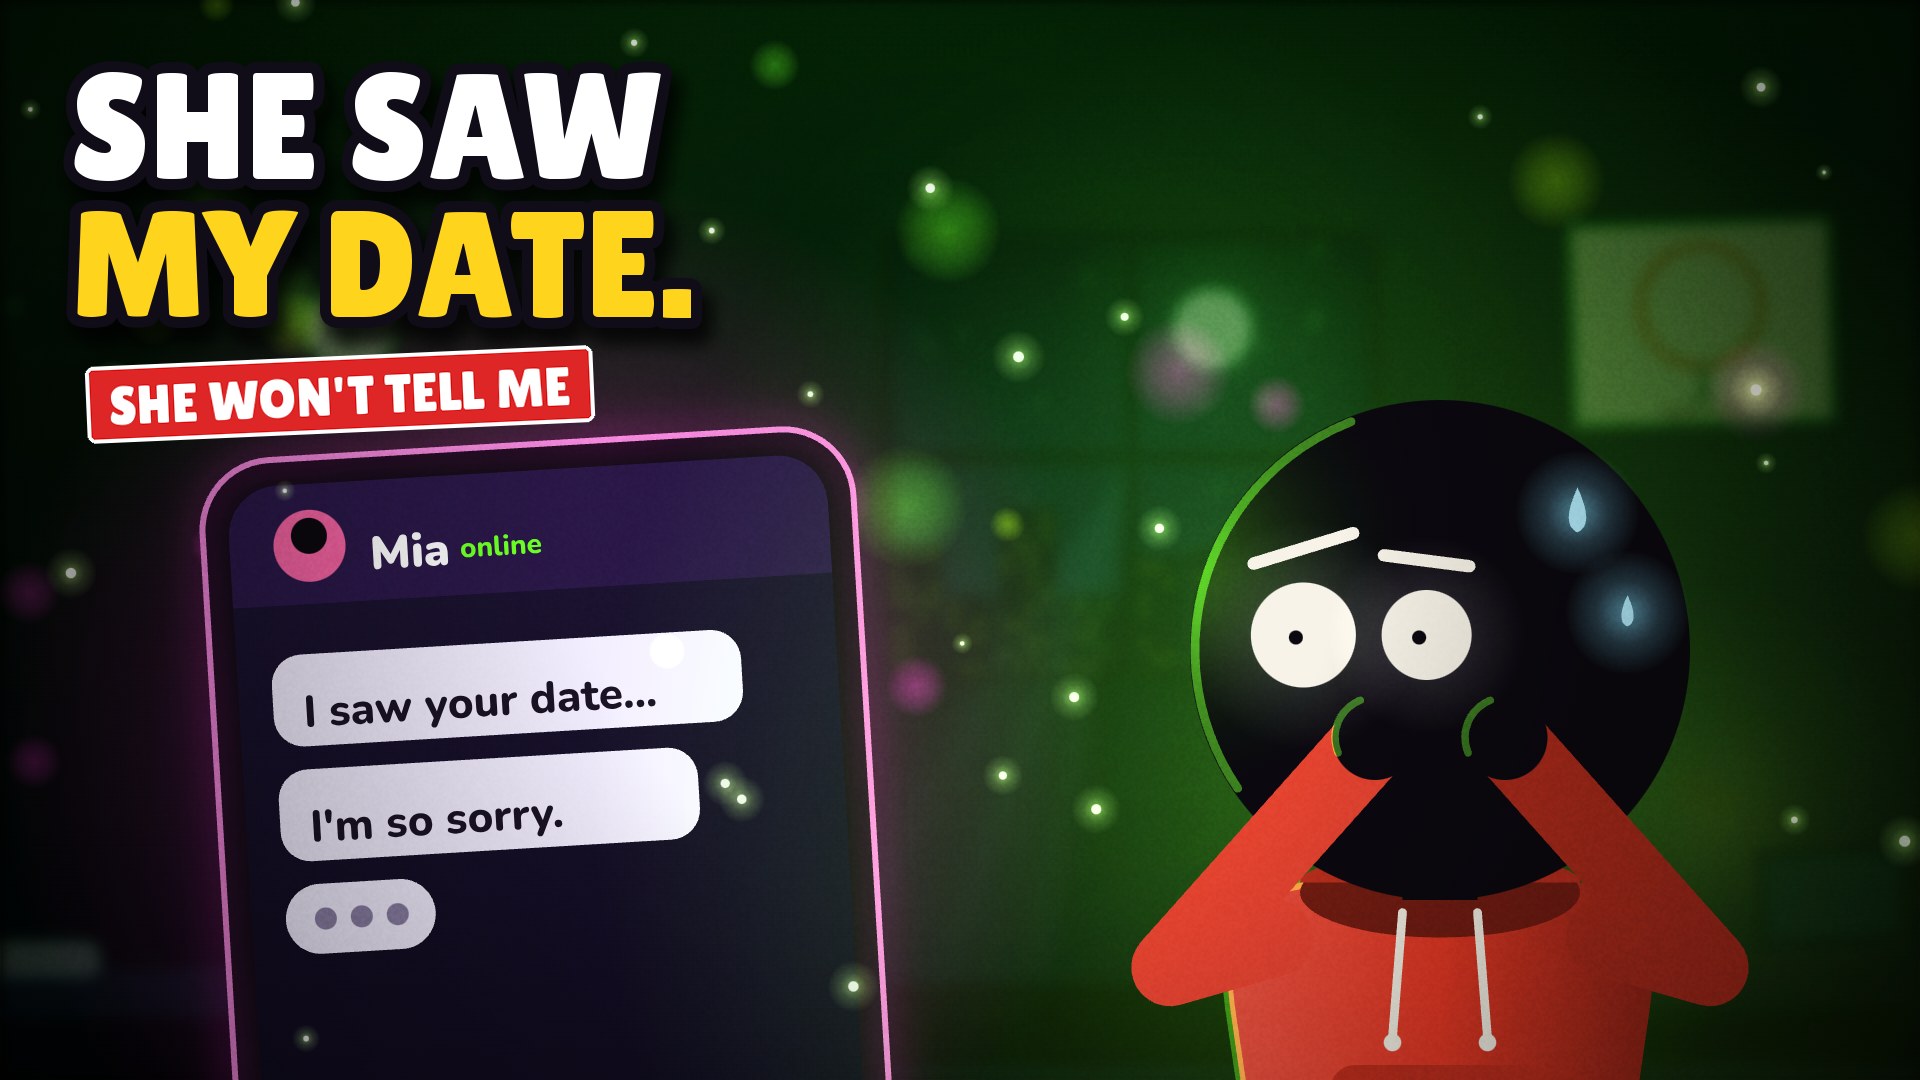
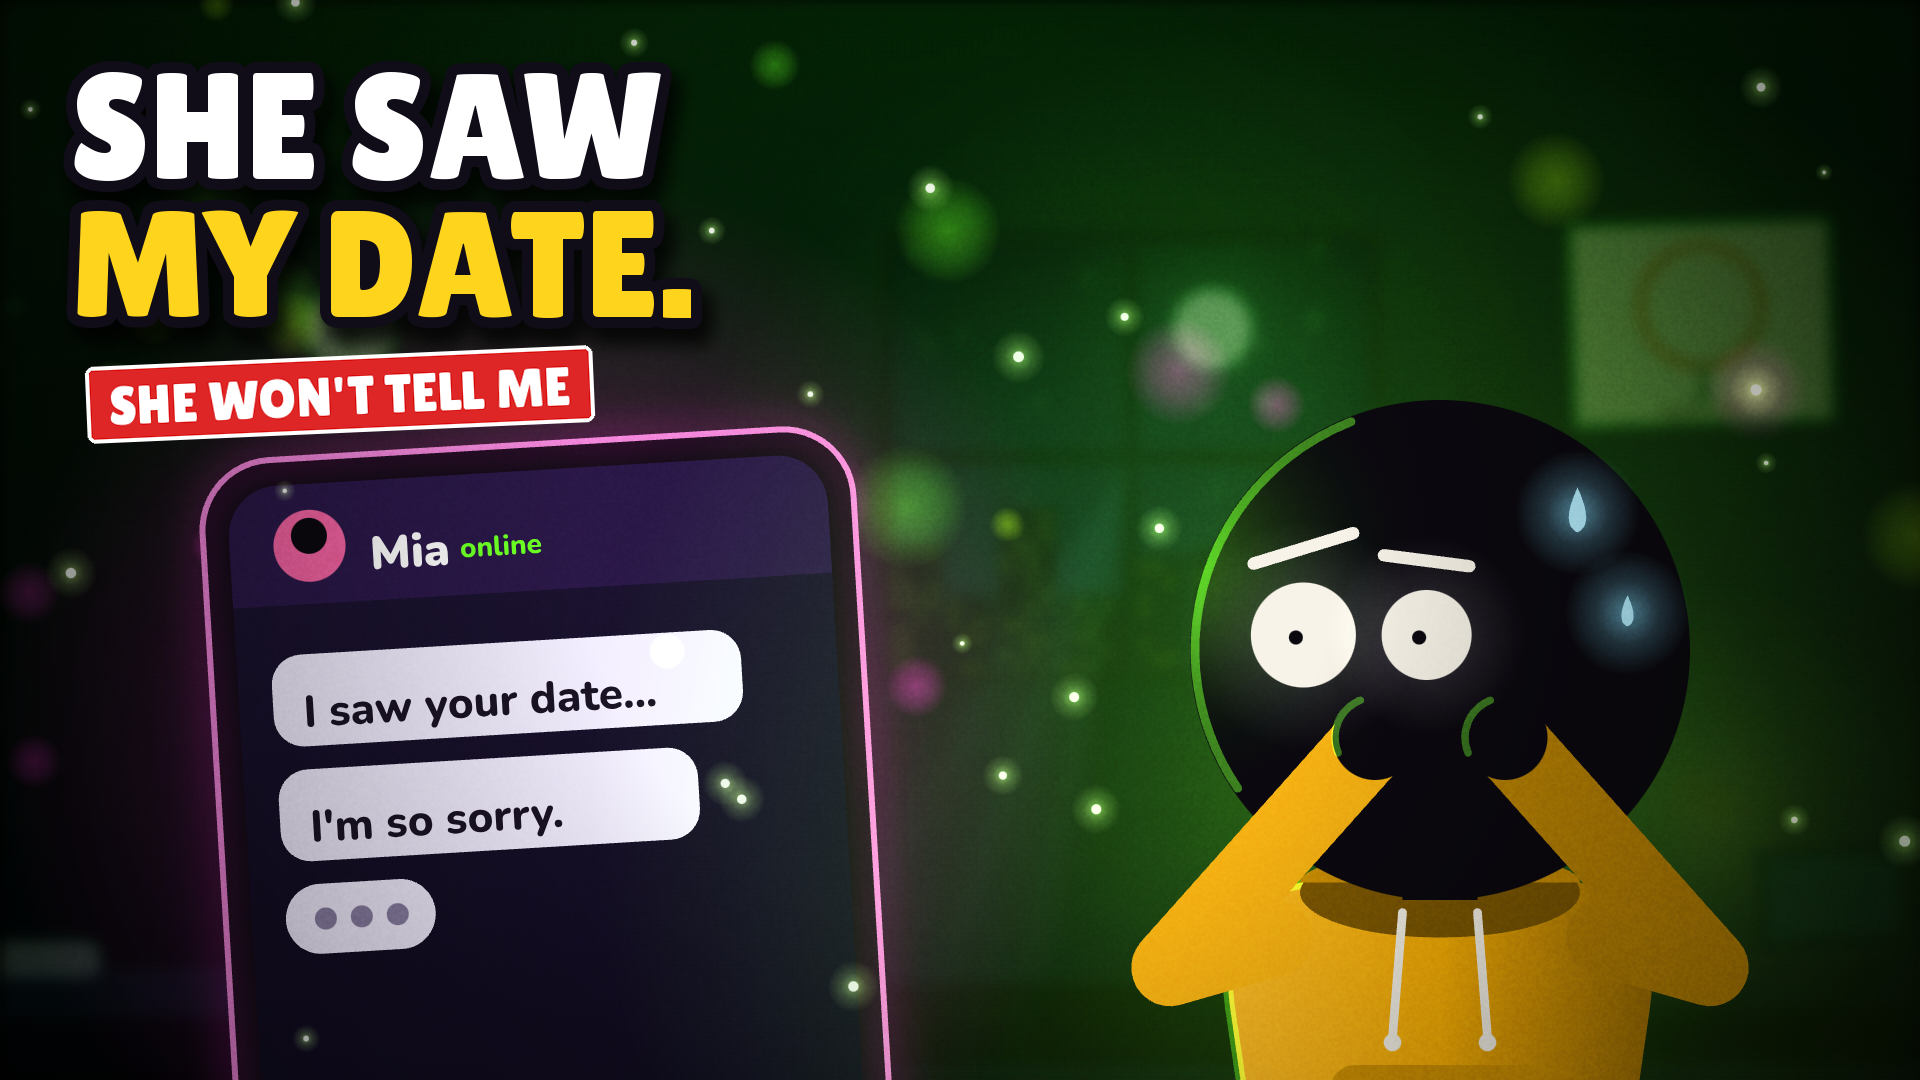
Thumbnails: hero in the yellow hoodie, as in the video
Claude-Session: https://claude.ai/code/session_01YFUDhuYLeWGd7axHRS6y6e

Changed region(s): [[0.5625, 0.6722, 0.9375, 1.0]]

diff --git a/razgon-2d-studio/projects/thumbs/scenes/shots/deathdate3.js b/razgon-2d-studio/projects/thumbs/scenes/shots/deathdate3.js
@@ -81,7 +81,7 @@ const V = {
     rr(g, px + 34, py + 400, 150, 70, 35); g.fillStyle = '#f4f0ff'; g.fill(); for (let i = 0; i < 3; i++) circle(g, px + 74 + i * 36, py + 435, 11, '#8a80a0');
     g.restore();
     motes(g, 302, 34, '#c8ff8a');
-    const h = heroFull(g, 1440, 1520, 250, 'none', { pose: 'cover', dir: -1, rim: '#7aff3a', haloA: 0.4 });
+    const h = heroFull(g, 1440, 1520, 250, 'none', { pose: 'cover', hoodie: '#f2b21c', dir: -1, rim: '#7aff3a', haloA: 0.4 });
     feat(g, h.head[0], h.head[1], 250, 'terror', -1, { noMouth: true });
   },
   // 2 MANIAC grin, falling head-first through the frame, arms flailing — his date glows: "I CAN'T / DIE."
@@ -97,7 +97,7 @@ const V = {
     // the hero, tumbling backwards through the air, centre-right
     const R = 205;
     g.save(); g.translate(1360, 610); g.rotate(-0.62);
-    const h = heroFull(g, 0, 420, R, 'none', { pose: 'flail', dir: -1, rim: '#ffb04a', haloA: 0.45 });
+    const h = heroFull(g, 0, 420, R, 'none', { pose: 'flail', hoodie: '#f2b21c', dir: -1, rim: '#ffb04a', haloA: 0.45 });
     feat(g, h.head[0], h.head[1], R, 'maniac', -1);
     g.restore();
     // his own date tag, blazing (the camera sees it; he never can)
@@ -133,7 +133,7 @@ const V = {
     g.restore();
     motes(g, 323, 34, '#ffc8c8');
     const R = 175;
-    const h = heroFull(g, 560, 1045, R, 'none', { pose: 'reach', dir: 1, rim: '#ff5a6a', haloA: 0.4 });
+    const h = heroFull(g, 560, 1045, R, 'none', { pose: 'reach', hoodie: '#f2b21c', dir: 1, rim: '#ff5a6a', haloA: 0.4 });
     feat(g, h.head[0], h.head[1], R, 'cry', 1);
   },
 };
